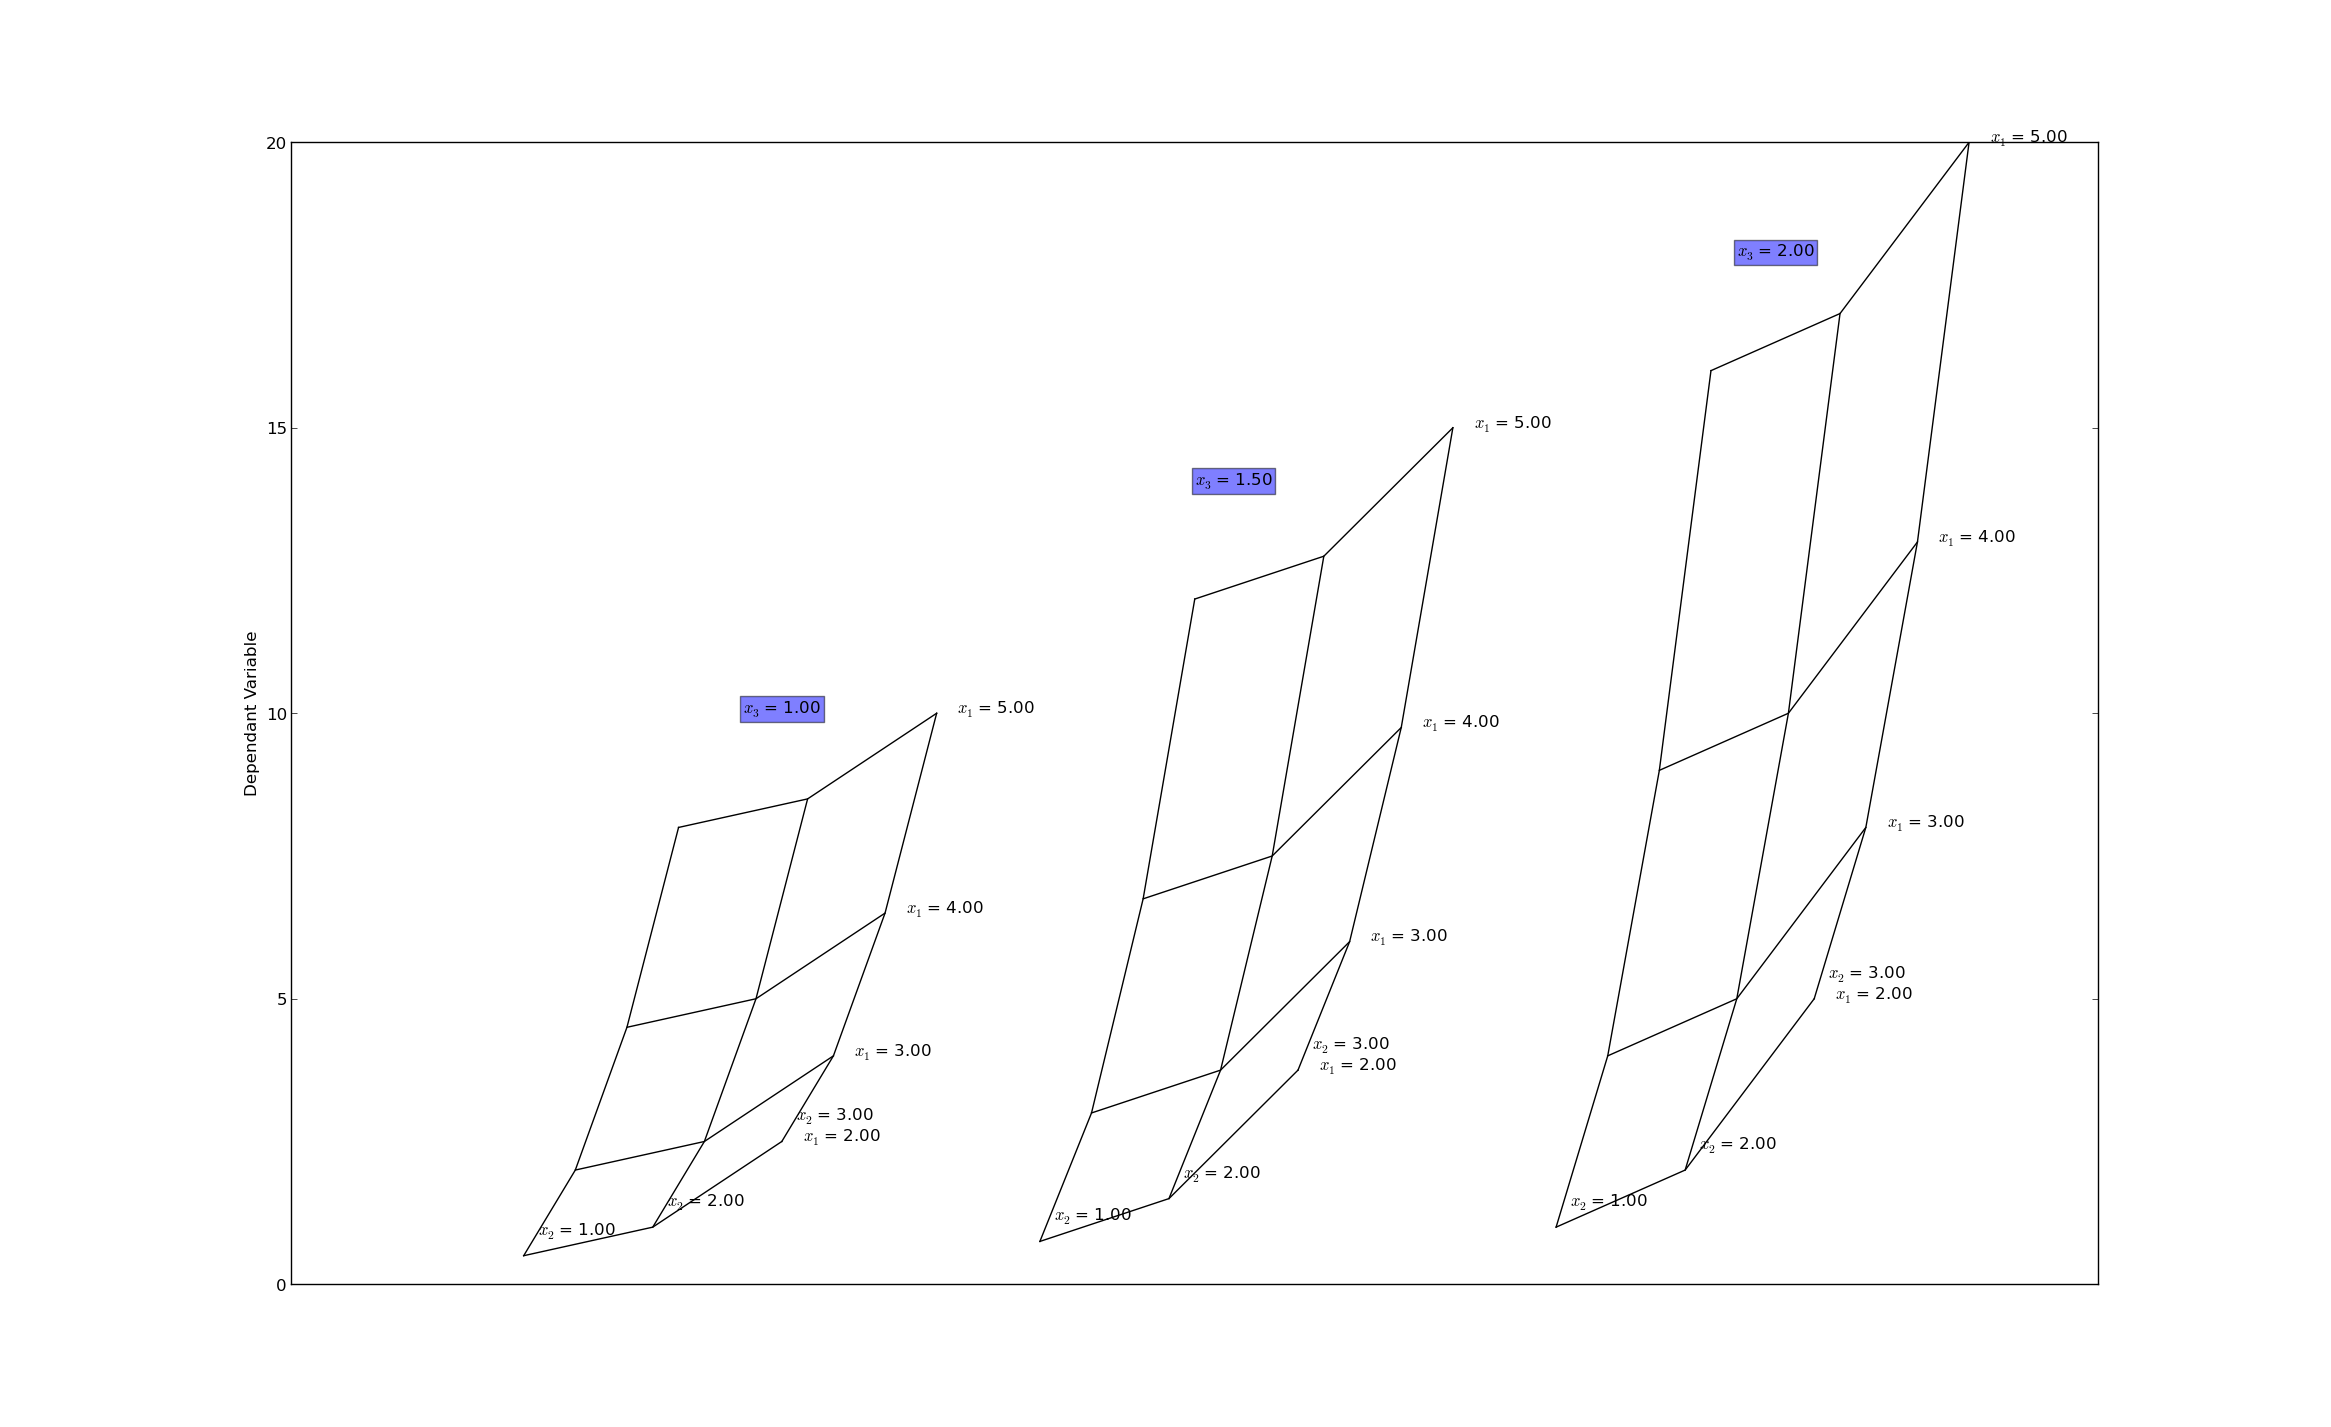
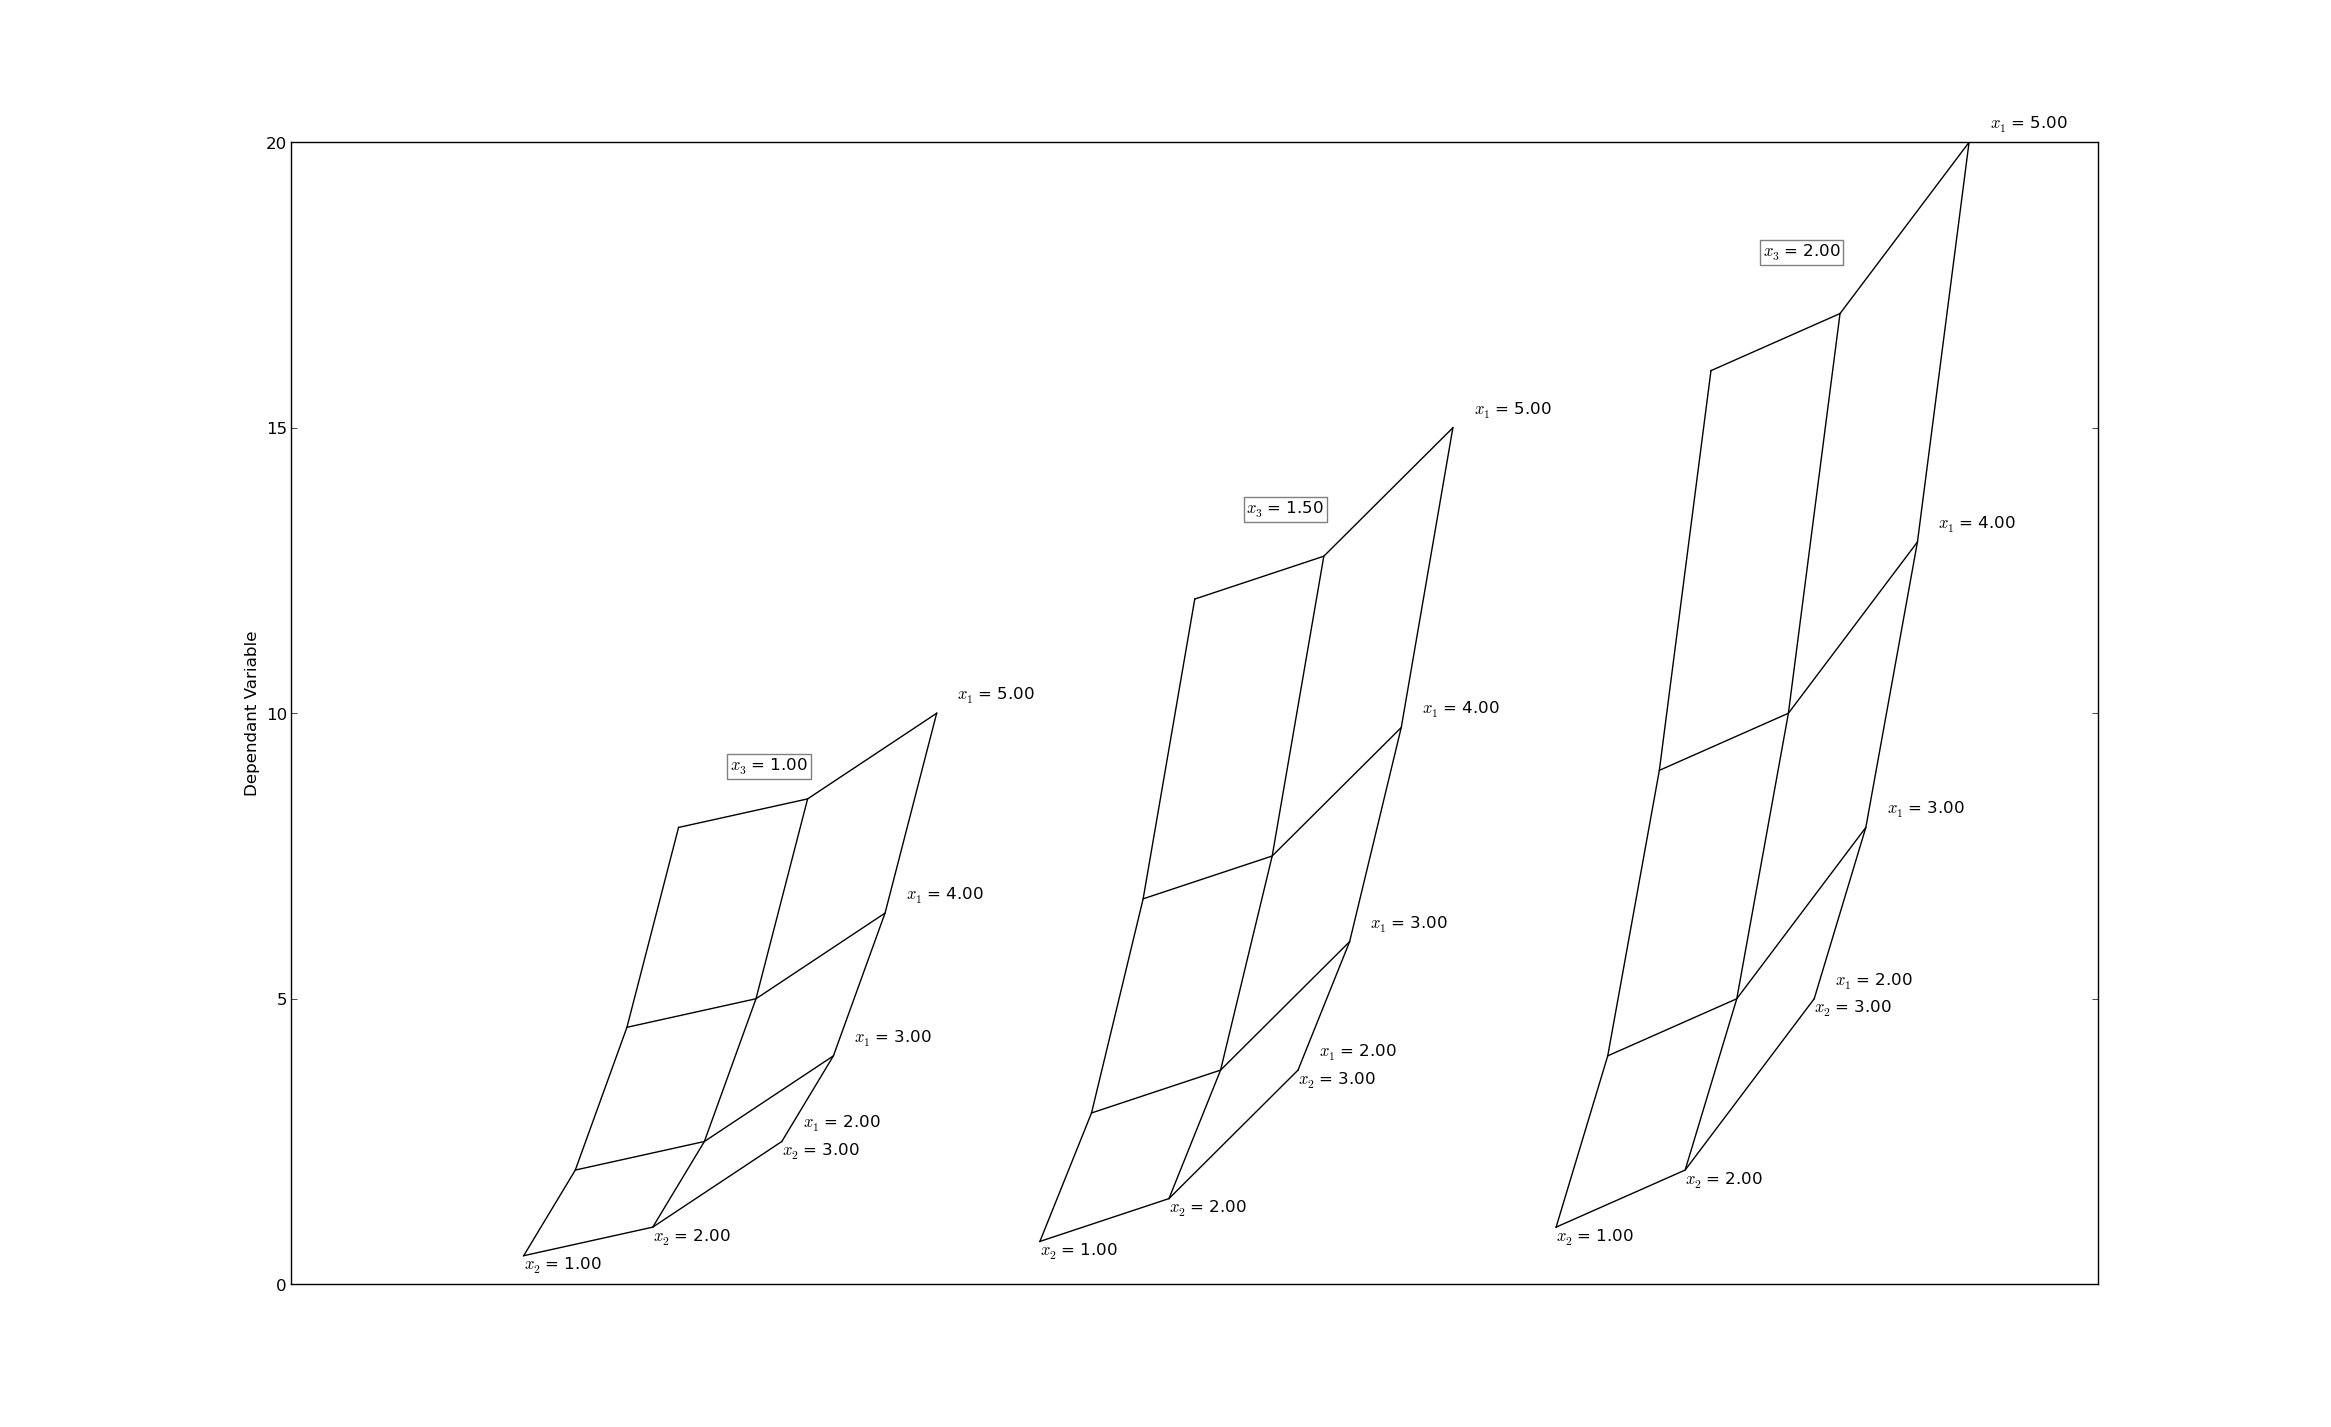
Update to carpet plot, added labels

diff --git a/pyCarpetPlot.py b/pyCarpetPlot.py
@@ -48,7 +48,9 @@ sys.path.append(os.path.abspath('../'))
 # 
 # =============================================================================
 
-def carpet_plot(x1, x2, y, ofst = 1, ofst2 = 0.0, axis = None, x1_skip = 1, x2_skip = 1, label1 = '', label2 = '',  label1_loc = 'end', label2_loc = 'end', dep_title = '', contour_data = None):
+def carpet_plot(x1, x2, y, ofst = 1, ofst2 = 0.0, axis = None, x1_skip = 1, x2_skip = 1, 
+        label1 = '', label2 = '',  label1_loc = 'end', label2_loc = 'end', label1_ofst = (15, 0), label2_ofst = (15, 0), 
+        title = '', title_loc = (1.0, 0.9), dep_title = '', contour_data = None):
     '''
 
     Generates a carpet plot of the data 
@@ -64,8 +66,8 @@ def carpet_plot(x1, x2, y, ofst = 1, ofst2 = 0.0, axis = None, x1_skip = 1, x2_s
 
     **Inputs** 
 
-    - x1 -> (n x 1) numpy array: Vector of first independant values.
-    - x2 -> (m x 1) numpy array: Vector of seccond independant values.
+    - x1 -> (n x 1) numpy array: Vector of first independent values.
+    - x2 -> (m x 1) numpy array: Vector of second independent values.
     - y -> (n x m) numpy.array: Matrix of dependant values.
     - ofst -> FLOAT: Offset factor, can be used to change the shape of the plot, *Default 1.0*
                         - ofst = 1 : trend of y with x1 and x2 of similar magnitude
@@ -85,6 +87,12 @@ def carpet_plot(x1, x2, y, ofst = 1, ofst2 = 0.0, axis = None, x1_skip = 1, x2_s
                     - 'end': at the end of the data 
                     - 'start': at the start of the data 
                     - None: do not show labels
+    - label1_ofst -> 2-TUPPLE: X and Y offset, in pixels, from the selected vertex 
+    - label2_ofst -> 2-TUPPLE: X and Y offset, in pixels, from the selected vertex
+    - title -> STR: String to place above the carpet plot
+    - title_loc -> 2-TUPPLE: X and Y modifiers for the title location 
+            - [0] modifier to the midpoint of the x range 
+            - [1] modifier to the max y point
     - dep_title -> STR: Title to append to the dependant axis
     - contour_data - > (n x m) numpy.array: Matrix of dependant values to plot as a contour. *Default: None*
 
@@ -94,11 +102,13 @@ def carpet_plot(x1, x2, y, ofst = 1, ofst2 = 0.0, axis = None, x1_skip = 1, x2_s
     y = numpy.array(y)
     contour_data = numpy.array(contour_data)
 
-    # for var in [y, contour_data]: 
-    #     if not (len(x2), len(x1)) == var.shape:
-    #         raise Exception('Shape of input does not agree %s != (%d x %d)'%(var.shape, len(x2), len(x1)))
-    #     #end
-    # #end
+    for var in [y, contour_data]: 
+        if var.shape == (): 
+            pass
+        elif not (len(x2), len(x1)) == var.shape:
+            raise Exception('Shape of input does not agree %s != (%d x %d)'%(var.shape, len(x2), len(x1)))
+        #end
+    #end
 
     def label_map(label_loc):     
         if label_loc == None : return None
@@ -106,17 +116,6 @@ def carpet_plot(x1, x2, y, ofst = 1, ofst2 = 0.0, axis = None, x1_skip = 1, x2_s
         elif label_loc.lower()[0] == 'e': return -1
         else: raise Exception('Invalid data label location')
     #end
-
-    def draw_label(text, loc_xy, label_loc, axis):
-        if label_loc > 0:
-             ha = 'right'
-             va = 'bottom'
-        else:
-             ha = 'left'
-             va = 'bottom'
-        #end
-        axis.annotate(text, xy = loc_xy, xytext = (15, 0), textcoords = 'offset points', ha = ha, va = va)
-
     
     label1_loc, label2_loc = map(label_map, [label1_loc, label2_loc])
 
@@ -133,17 +132,21 @@ def carpet_plot(x1, x2, y, ofst = 1, ofst2 = 0.0, axis = None, x1_skip = 1, x2_s
     for i in xrange(0,len(x1),x1_skip):
         ax1.plot(x_cheat[:,i], y[:,i], '-k')
         if not label1_loc == None:
-            ax1.annotate(r'%s = %3.2f'%(label1, x1[i]), xy = (x_cheat[label1_loc,i], y[label1_loc,i]), xytext = (15, 0), textcoords = 'offset points')
-            # draw_label(r'%s = %3.2f'%(label1, x1[i]), (x_cheat[label1_loc,i], y[label1_loc,i]), label1_loc, ax1)
+            ax1.annotate(r'%s = %3.2f'%(label1, x1[i]), xy = (x_cheat[label1_loc,i], y[label1_loc,i]), xytext = label1_ofst, textcoords = 'offset points')
         #end
     #end
 
     for i in xrange(0,len(x2),x2_skip):
         ax1.plot(x_cheat[i,:], y[i,:], '-k')
         if not label2_loc == None:
-            ax1.annotate(r'%s = %3.2f'%(label2, x2[i]), xy = (x_cheat[i,label2_loc], y[i,label2_loc]), xytext = (10, 15), textcoords = 'offset points')
-            # draw_label(r'%s = %3.2f'%(label2, x2[i]), (x_cheat[i,label2_loc], y[i,label2_loc]), label2_loc, ax1)
+            ax1.annotate(r'%s = %3.2f'%(label2, x2[i]), xy = (x_cheat[i,label2_loc], y[i,label2_loc]), xytext = label2_ofst, textcoords = 'offset points')
         #end
+
+    if title == '':
+        pass
+    else:
+        ax1.annotate('%s'%(title), xy = (title_loc[0] * 0.5 * (numpy.max(x_cheat) + numpy.min(x_cheat)), title_loc[1] * numpy.max(y)), xytext = (0,0), textcoords = 'offset points', bbox = {'facecolor':'white', 'alpha':0.5})
+    #end
 
     if not contour_data == None:
         try:

diff --git a/examples/2_indep_2_dep.py b/examples/2_indep_2_dep.py
@@ -48,7 +48,7 @@ from pyCarpetPlot import *
 # 
 # =============================================================================
 f = lambda x1 ,x2: x1**2+x2**2-2*x1-2*x2+2
-f2 = lambda x1 ,x2: (x1)**0.5+(x2)**4 -2*x1+2*x2
+f2 = lambda x1 ,x2: (x1*x2)**0.5
 
 x1 = numpy.linspace(2,5,4)
 x2 = numpy.linspace(1,3,3)
@@ -63,12 +63,12 @@ for i in xrange(len(x1)):
 		tmp2.append(f2(x1[i], x2[j]))
 	#end
 	fobj.append(tmp)
-	contour.append(tmp)
+	contour.append(tmp2)
 #end
 
 fobj = numpy.array(fobj)
 contour = numpy.array(contour)
 
 # pdb.set_trace()
-ax1 = carpet_plot(x1,x2,fobj.T, ofst = 2, label1 = r'$x_{1}$', label2 = r'$x_{2}$', label1_loc = 'end', dep_title = 'Dependant Variable', contour_data = contour.T)
+ax1 = carpet_plot(x1,x2,fobj.T, ofst = 3, label1 = r'$x_{1}$', label2 = r'$x_{2}$', label1_loc = 'end', label1_ofst = (10,0), label2_ofst = (0,15), dep_title = 'Dependant Variable', contour_data = contour.T)
 plt.show()

diff --git a/examples/3_indep_2_dep.py b/examples/3_indep_2_dep.py
@@ -66,8 +66,8 @@ for k in xrange(len(x3)):
 		fobj.append(tmp)
 	#end
 	fobj = numpy.array(fobj)
-	ax1 = carpet_plot(x1,x2,fobj.T, ofst = 2.5 ,ofst2 = ofst2, axis = ax1, label1 = r'$x_{1}$', label2 = r'$x_{2}$', label2_loc = 'start', dep_title = 'Dependant Variable')
-	ax1.annotate(r'$x_{3}$ = %3.2f'%(x3[k]), xy = label_points[k], textcoords = 'axes fraction', bbox = {'facecolor':'white', 'alpha':0.5})
+	ax1 = carpet_plot(x1,x2,fobj.T, ofst = 2.5 ,ofst2 = ofst2, axis = ax1, label1 = r'$x_{1}$', label2 = r'$x_{2}$',label2_ofst = (0, -10),label1_ofst = (15, 10), label2_loc = 'start', dep_title = 'Dependant Variable', title = r'$x_{3}$ = %3.2f'%(x3[k]))
+	# ax1.annotate(r'$x_{3}$ = %3.2f'%(x3[k]), xy = label_points[k], textcoords = 'axes fraction', bbox = {'facecolor':'white', 'alpha':0.5})
 	ofst2 += 10
 #end
 

diff --git a/examples/2_indep_1_dep.py b/examples/2_indep_1_dep.py
@@ -64,5 +64,5 @@ for i in xrange(len(x1)):
 fobj = numpy.array(fobj)
 
 # pdb.set_trace()
-ax1 = carpet_plot(x1,x2,fobj.T, ofst = 1, label1 = r'$x_{1}$', label2 = r'$x_{2}$', label1_loc = 'start', dep_title = 'Dependant Variable')
+ax1 = carpet_plot(x1,x2,fobj.T, ofst = 1, label1 = r'$x_{1}$', label2 = r'$x_{2}$', label1_loc = 'start', dep_title = 'Dependant Variable', title = '')
 plt.show()
